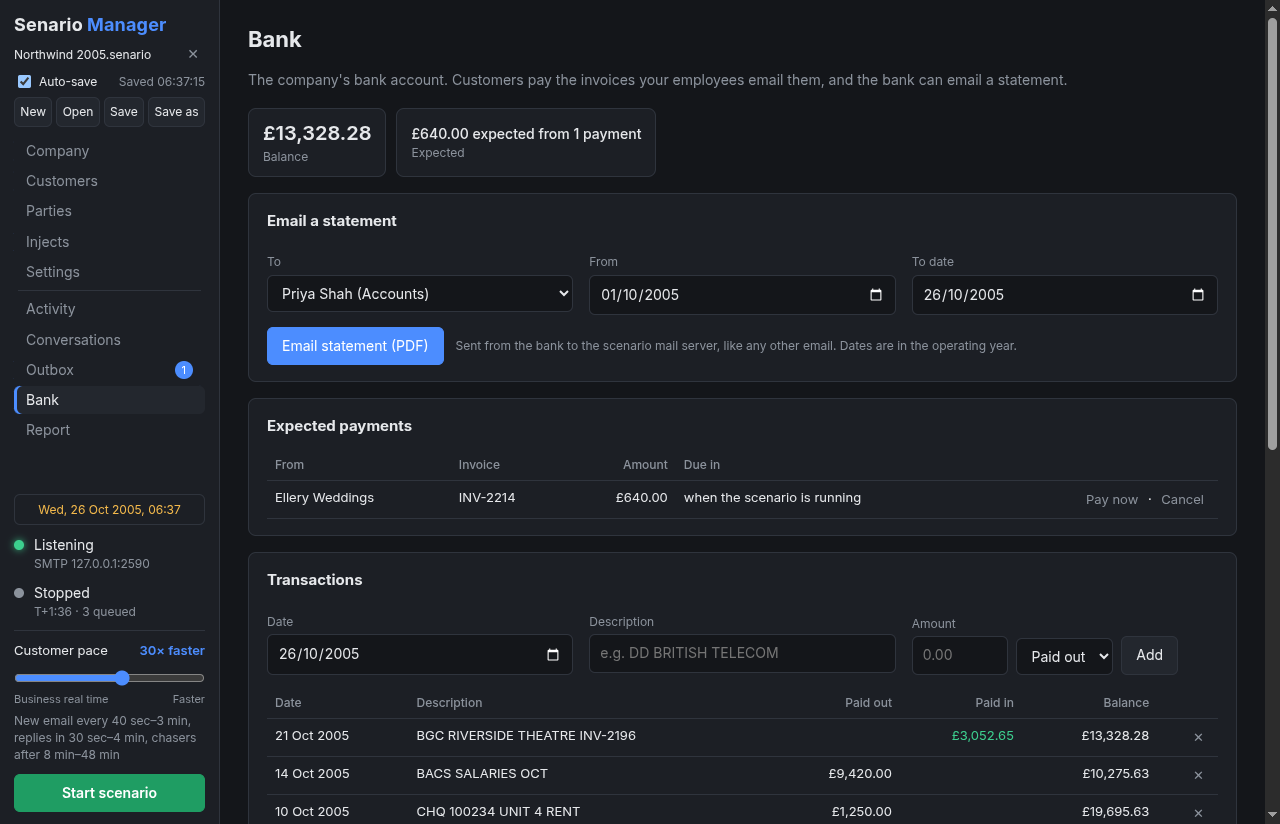
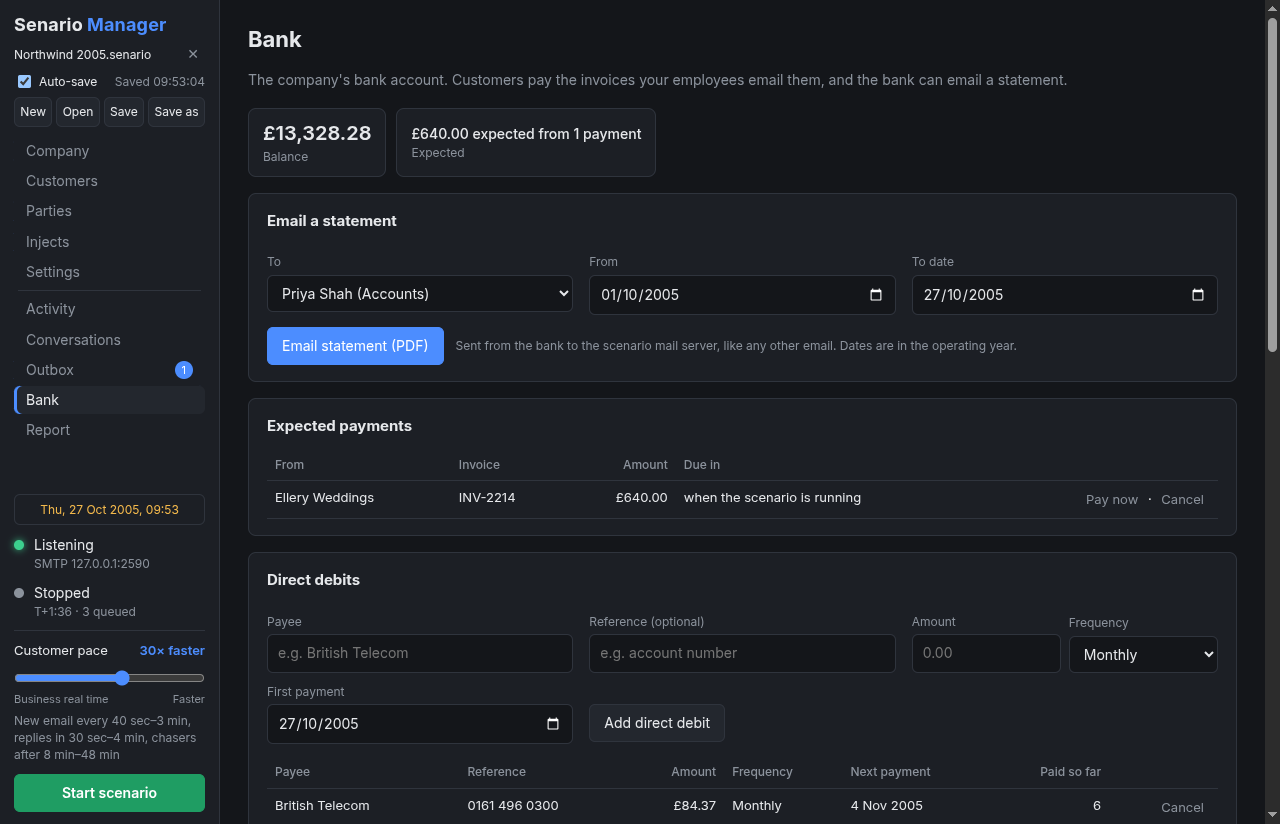
Release 0.9.0
Direct debits:
- Bank tab: add (payee, reference, amount, frequency, first payment
  date), list with next payment and count, cancel.
- Collected on each due date in the operating year as "DD <PAYEE>",
  catching up on missed or back-dated payments; monthly debits keep
  their day of the month (clamped to month end).
- Read-only Direct Debits page in online banking.
- .senario: bankDirectDebits state, directDebit in transaction meta
  (older files and versions unaffected).
- Docs, demo data and screenshots.

diff --git a/src/core/engine.js b/src/core/engine.js
@@ -64,6 +64,9 @@ class Engine extends EventEmitter {
     this.replyTimers = new Map();
     this.listener = null;
     this.listenerError = null;
+    // Direct debits fall due on scenario dates, whether or not the scenario is running.
+    this.ddTimer = setInterval(() => this.collectDirectDebits(), 60000);
+    this.ddTimer.unref();
   }
 
   // ---------- helpers ----------
@@ -293,6 +296,7 @@ class Engine extends EventEmitter {
   }
 
   async shutdown() {
+    clearInterval(this.ddTimer);
     await this.stop();
     await this.closeListener();
     await this.closeWebBank();
@@ -1389,6 +1393,7 @@ class Engine extends EventEmitter {
     return {
       account, transactions: rows.reverse(), balance, available: balance + (Number(account.overdraftLimit) || 0), expected,
       today: bank.isoDate(this.scenarioNow()), running: this.running, companyName: this.company.name,
+      directDebits: (this.data.bank.directDebits || []).map((d) => ({ ...d, nextDate: bank.nextCollection(d), frequencyLabel: bank.FREQUENCIES[d.frequency].label })),
       online: { enabled: !!online.enabled, bindAddress: online.bindAddress, port: online.port,
         users: (online.users || []).map((u) => ({ username: u.username, name: u.name })), ...this.webBankStatus() },
     };
@@ -1440,6 +1445,58 @@ class Engine extends EventEmitter {
     this.emit('bank-changed');
     this.emitStatus();
     return this.bankState();
+  }
+
+  // ---------- direct debits ----------
+
+  addDirectDebit({ payee, reference, amount, frequency, startDate }) {
+    const name = String(payee || '').trim().replace(/\s+/g, ' ').slice(0, 40);
+    const minor = Math.abs(bank.toMinor(amount));
+    if (!name) throw new Error('Enter who the direct debit is paid to.');
+    if (!(minor > 0)) throw new Error('Enter the amount that comes out each time.');
+    if (!bank.FREQUENCIES[frequency]) throw new Error('Choose how often it comes out.');
+    if (!/^\d{4}-\d{2}-\d{2}$/.test(String(startDate)) || Number.isNaN(Date.parse(startDate))) throw new Error('Choose the date of the first payment.');
+    const dd = { id: crypto.randomUUID(), payee: name, reference: String(reference || '').trim().slice(0, 18), amount: minor, frequency, startDate, collected: 0 };
+    (this.data.bank.directDebits = this.data.bank.directDebits || []).push(dd);
+    this.log('info', `Direct debit set up: ${bank.money(minor, this.data.bank.account.currency)} ${bank.FREQUENCIES[frequency].label.toLowerCase()} to ${name}, first on ${startDate}.`);
+    this.store.save();
+    this.collectDirectDebits();
+    this.emit('bank-changed');
+    return this.bankState();
+  }
+
+  // Cancelling stops future collections; what was already collected stays on the account.
+  removeDirectDebit(id) {
+    const dd = (this.data.bank.directDebits || []).find((d) => d.id === id);
+    this.data.bank.directDebits = (this.data.bank.directDebits || []).filter((d) => d.id !== id);
+    if (dd) this.log('info', `Direct debit to ${dd.payee} cancelled.`);
+    this.store.save();
+    this.emit('bank-changed');
+    return this.bankState();
+  }
+
+  // Takes every collection due up to today (scenario date), including any missed while the
+  // app was closed or before a back-dated start.
+  collectDirectDebits() {
+    const today = bank.isoDate(this.scenarioNow());
+    const cur = this.data.bank.account.currency;
+    let any = false;
+    for (const dd of this.data.bank.directDebits || []) {
+      for (let guard = 0; guard < 520 && bank.nextCollection(dd) <= today; guard++) {
+        const date = bank.nextCollection(dd);
+        this.data.bank.transactions.push({
+          id: crypto.randomUUID(), date, amount: -dd.amount, description: bank.ddDescription(dd.payee),
+          reference: dd.reference || undefined, counterparty: dd.payee, payee: dd.payee, directDebit: dd.id,
+        });
+        dd.collected = (dd.collected || 0) + 1;
+        any = true;
+        this.log('info', `Direct debit: ${bank.money(dd.amount, cur)} to ${dd.payee} (${date}).`);
+      }
+    }
+    if (any) {
+      this.store.save();
+      this.emit('bank-changed');
+    }
   }
 
   // ---------- online banking (core/webbank.js) ----------
@@ -1588,6 +1645,7 @@ class Engine extends EventEmitter {
     this.store.replaceAll(snapshot, opts);
     await this.restartListener().catch(() => {});
     await this.restartWebBank().catch(() => {});
+    this.collectDirectDebits();
     this.emit('threads-changed');
     this.emit('outbox-changed');
     this.emit('injects-changed');

diff --git a/test/banking.test.js b/test/banking.test.js
@@ -164,6 +164,44 @@ const SLOW = { name: 'Sue Slow', email: 'sue@slow.local', organisation: 'Slow & 
   fs.rmSync(f);
   console.log('OK 8: bank, promised payments and habits survive .senario and clearing conversations');
 
+  // 9. Direct debits: dates, back-dated catch-up, collection when due, cancelling, persistence.
+  const bankMod = require(ROOT + '/src/core/bank');
+  assert.deepStrictEqual([0, 1, 2, 3].map((n) => bankMod.occurrence('2005-01-31', 'monthly', n)), ['2005-01-31', '2005-02-28', '2005-03-31', '2005-04-30'], 'month ends');
+  assert.strictEqual(bankMod.occurrence('2004-02-29', 'yearly', 1), '2005-02-28');
+  assert.strictEqual(bankMod.occurrence('2005-12-20', 'fortnightly', 1), '2006-01-03');
+  assert.strictEqual(bankMod.occurrence('2005-11-30', 'quarterly', 1), '2006-02-28');
+  const today9 = engine.bankState().today;
+  const [y9, m9, d9] = today9.split('-').map(Number);
+  const threeMonthsAgo = bankMod.isoDate(Date.UTC(y9, m9 - 4, Math.min(d9, 28)));
+  const before9 = engine.bankState().balance;
+  assert.throws(() => engine.addDirectDebit({ payee: '', amount: 5, frequency: 'monthly', startDate: today9 }), /Enter who/);
+  assert.throws(() => engine.addDirectDebit({ payee: 'X', amount: 5, frequency: 'daily', startDate: today9 }), /how often/);
+  engine.addDirectDebit({ payee: 'British Telecom', reference: 'BT-99', amount: '84.37', frequency: 'monthly', startDate: threeMonthsAgo });
+  const bt = store.data.bank.transactions.filter((t) => t.description === 'DD BRITISH TELECOM' && t.directDebit);
+  assert.strictEqual(bt.length, 4, `back-dated: every missed month collected (today ${today9}, start ${threeMonthsAgo}): ${JSON.stringify(bt.map((t) => t.date))}`);
+  assert.ok(bt.every((t) => t.amount === -8437 && t.directDebit));
+  assert.strictEqual(engine.bankState().balance, before9 - bt.length * 8437);
+  engine.addDirectDebit({ payee: 'Unit 4 Landlord', amount: 1250, frequency: 'weekly', startDate: bankMod.occurrence(today9, 'weekly', 1) });
+  let dds = engine.bankState().directDebits;
+  assert.strictEqual(dds.find((d) => d.payee === 'Unit 4 Landlord').collected, 0, 'future: nothing yet');
+  assert.strictEqual(dds.find((d) => d.payee === 'Unit 4 Landlord').nextDate, bankMod.occurrence(today9, 'weekly', 1));
+  // Its date arrives (pretend a week has passed on the scenario calendar).
+  dds = store.data.bank.directDebits;
+  dds.find((d) => d.payee === 'Unit 4 Landlord').startDate = today9;
+  engine.collectDirectDebits();
+  engine.collectDirectDebits();
+  assert.strictEqual(store.data.bank.transactions.filter((t) => t.description === 'DD UNIT 4 LANDLORD').length, 1, 'collected once when due');
+  const f9 = path.join(os.tmpdir(), `dd-${process.pid}.senario`);
+  saveSenario(f9, store.data, { includeSecrets: false, appVersion: 'test' });
+  const back9 = loadSenario(f9).data.bank;
+  assert.deepStrictEqual(back9.directDebits, store.data.bank.directDebits);
+  assert.ok(back9.transactions.filter((t) => t.directDebit).length === bt.length + 1);
+  fs.rmSync(f9);
+  engine.removeDirectDebit(store.data.bank.directDebits[0].id);
+  assert.strictEqual(engine.bankState().directDebits.length, 1);
+  assert.strictEqual(store.data.bank.transactions.filter((t) => t.description === 'DD BRITISH TELECOM' && t.directDebit).length, bt.length, 'cancelling keeps what was taken');
+  console.log(`OK 9: direct debits (month ends, ${bt.length} back-dated collections, due-date collection once, cancel, .senario)`);
+
   await engine.shutdown();
   openai.close();
   sink.close();

diff --git a/src/core/webbank.js b/src/core/webbank.js
@@ -193,6 +193,7 @@ class WebBank {
     if (path === '/pay') return req.method === 'POST' ? this.payReview(res, s, body) : this.payForm(res, s, {});
     if (path === '/pay/confirm' && req.method === 'POST') return this.payConfirm(res, s, body);
     if (path === '/statements') return this.statementsPage(res, s, url);
+    if (path === '/direct-debits') return this.directDebits(res, s);
     if (path === '/statements/download') return this.download(res, s, url);
     return this.send(res, 404, this.page(s, 'Not found', '<div class="panel">That page doesn\'t exist. <a href="/accounts">Back to your accounts</a></div>'));
   }
@@ -203,7 +204,7 @@ class WebBank {
     const st = this.api.state();
     const name = esc(st.account.bankName);
     const link = (href, label) => `<a href="${href}"${active === href ? ' class="on"' : ''}>${label}</a>`;
-    const navHtml = s ? `<nav>${link('/accounts', 'Accounts')}${link('/transactions', 'Transactions')}${link('/pay', 'Pay &amp; transfer')}${link('/statements', 'Statements')}</nav>
+    const navHtml = s ? `<nav>${link('/accounts', 'Accounts')}${link('/transactions', 'Transactions')}${link('/pay', 'Pay &amp; transfer')}${link('/direct-debits', 'Direct Debits')}${link('/statements', 'Statements')}</nav>
       <form method="post" action="/logout"><input type="hidden" name="csrf" value="${esc(s.csrf)}"><button>Log out</button></form>` : '';
     return `<!doctype html><html lang="en"><head><meta charset="utf-8"><meta name="viewport" content="width=device-width, initial-scale=1">
 <title>${esc(title)} - ${name} Online Banking</title><link rel="stylesheet" href="/style.css"></head>
@@ -354,6 +355,15 @@ class WebBank {
       <div class="panel"><dl><dt>Confirmation number</dt><dd>${esc(t.id.slice(0, 8).toUpperCase())}</dd><dt>Date</dt><dd>${esc(fmtDay(t.date))}</dd>
         <dt>Shows on your statement as</dt><dd>${esc(t.description)}</dd><dt>New balance</dt><dd>${this.money(this.api.state().balance)}</dd></dl>
         <div class="actions"><a class="btn" href="/accounts">Back to accounts</a><a class="btn alt" href="/pay">Make another payment</a></div></div>`, '/pay'));
+  }
+
+  directDebits(res, s) {
+    const dds = this.api.state().directDebits || [];
+    this.send(res, 200, this.page(s, 'Direct Debits', `<h1>Direct Debits</h1>
+      <div class="panel">${dds.length ? `<table><thead><tr><th>Paid to</th><th>Reference</th><th class="n">Last amount</th><th>How often</th><th>Next payment</th></tr></thead><tbody>${dds.map((d) => `<tr>
+        <td>${esc(d.payee)}</td><td>${esc(d.reference || '')}</td><td class="n">${this.money(d.amount)}</td><td>${esc(d.frequencyLabel)}</td><td>${esc(fmtDay(d.nextDate))}</td></tr>`).join('')}</tbody></table>`
+        : '<p class="muted">You have no Direct Debits on this account.</p>'}
+        <p class="muted small">To cancel a Direct Debit, please contact us.</p></div>`, '/direct-debits'));
   }
 
   statementsPage(res, s, url, error) {

diff --git a/src/renderer/bank.js b/src/renderer/bank.js
@@ -42,6 +42,13 @@ async function loadBank() {
   if (!$('#stmtFrom').value) $('#stmtFrom').value = `${b.today.slice(0, 8)}01`;
   if (!$('#stmtUntil').value) $('#stmtUntil').value = b.today;
   if (!$('#txDate').value) $('#txDate').value = b.today;
+  if (!$('#ddStart').value) $('#ddStart').value = b.today;
+  $('#bankDd').innerHTML = b.directDebits.length
+    ? `<table class="rtable"><thead><tr><th>Payee</th><th>Reference</th><th class="n">Amount</th><th>Frequency</th><th>Next payment</th><th class="n">Paid so far</th><th></th></tr></thead><tbody>${b.directDebits.map((d) => `<tr>
+        <td>${esc(d.payee)}</td><td>${esc(d.reference || '–')}</td><td class="n">${fmtMoney(d.amount)}</td><td>${esc(d.frequencyLabel)}</td>
+        <td>${fmtDay(d.nextDate)}</td><td class="n">${d.collected}</td>
+        <td class="n"><button class="link danger" data-dd-remove="${esc(d.id)}">Cancel</button></td></tr>`).join('')}</tbody></table>`
+    : '<p class="muted small">No direct debits.</p>';
 
   // Online banking.
   const o = b.online;
@@ -94,6 +101,17 @@ $('#addTx').addEventListener('click', (e) =>
   })
 );
 
+$('#addDd').addEventListener('click', (e) =>
+  busy(e.target, async () => {
+    await window.api.addDirectDebit({ payee: $('#ddPayee').value, reference: $('#ddRef').value, amount: $('#ddAmount').value, frequency: $('#ddFreq').value, startDate: $('#ddStart').value });
+    $('#ddPayee').value = '';
+    $('#ddRef').value = '';
+    $('#ddAmount').value = '';
+    await loadBank();
+    toast('Direct debit set up');
+  })
+);
+
 $('#sendStatement').addEventListener('click', (e) =>
   busy(e.target, async () => {
     await window.api.sendStatement({ to: [$('#stmtTo').value], from: $('#stmtFrom').value, until: $('#stmtUntil').value });
@@ -132,6 +150,10 @@ $('#tab-bank').addEventListener('click', (e) => {
   const now = e.target.closest('[data-pay-now]');
   const cancel = e.target.closest('[data-pay-cancel]');
   const remove = e.target.closest('[data-tx-remove]');
+  const ddRemove = e.target.closest('[data-dd-remove]');
+  if (ddRemove && confirm('Cancel this direct debit? Payments already taken stay on the account.')) {
+    busy(ddRemove, async () => { await window.api.removeDirectDebit(ddRemove.dataset.ddRemove); await loadBank(); });
+  }
   if (now) busy(now, async () => { await window.api.payNow(now.dataset.payNow); await loadBank(); });
   if (cancel && confirm('Cancel this payment? The customer will not pay this invoice.')) busy(cancel, async () => { await window.api.cancelPayment(cancel.dataset.payCancel); await loadBank(); });
   if (remove && confirm('Remove this transaction from the account?')) busy(remove, async () => { await window.api.removeTransaction(remove.dataset.txRemove); await loadBank(); });

diff --git a/src/core/senario-file.js b/src/core/senario-file.js
@@ -62,7 +62,7 @@ CREATE TABLE state (key TEXT PRIMARY KEY, value TEXT NOT NULL);            -- JS
 CREATE TABLE bank_transactions (                                            -- added in 0.6.0
   position INTEGER PRIMARY KEY, id TEXT NOT NULL, date TEXT NOT NULL, amount INTEGER NOT NULL, -- minor units, + in / - out
   description TEXT, reference TEXT, counterparty TEXT, customer TEXT, invoice TEXT,
-  meta TEXT -- JSON: online payments' { payee, sortCode, accountNumber, by } (0.7.0)
+  meta TEXT -- JSON extras: online payments' { payee, sortCode, accountNumber, by } (0.7.0), { payee, directDebit } (0.9.0)
 );
 CREATE TABLE activity_log (id INTEGER PRIMARY KEY, time TEXT NOT NULL, level TEXT NOT NULL, message TEXT NOT NULL);
 CREATE TABLE seen_messages (message_id TEXT PRIMARY KEY, kind TEXT NOT NULL, at INTEGER); -- sent | processed
@@ -149,8 +149,9 @@ function saveSenario(file, data, { includeSecrets = false, appVersion = '' } = {
     state.run('bankAccount', JSON.stringify(bankData.account || {}));
     // Users' passwords are salted hashes; credentials-free saves still keep them, as the site needs them.
     state.run('bankOnline', JSON.stringify(bankData.online || {}));
+    state.run('bankDirectDebits', JSON.stringify(bankData.directDebits || []));
     const tx = db.prepare('INSERT INTO bank_transactions VALUES (?, ?, ?, ?, ?, ?, ?, ?, ?, ?)');
-    const TX_META = ['payee', 'sortCode', 'accountNumber', 'by'];
+    const TX_META = ['payee', 'sortCode', 'accountNumber', 'by', 'directDebit'];
     (bankData.transactions || []).forEach((t, i) => {
       const meta = Object.fromEntries(TX_META.filter((k) => t[k] !== undefined).map((k) => [k, t[k]]));
       tx.run(i, t.id, t.date, Math.round(t.amount) || 0, t.description || '',
@@ -273,6 +274,7 @@ function loadSenario(file) {
     const bankData = {
       account: stateRows.bankAccount || {},
       online: stateRows.bankOnline || {},
+      directDebits: Array.isArray(stateRows.bankDirectDebits) ? stateRows.bankDirectDebits : [],
       transactions: hasTable('bank_transactions')
         ? db.prepare('SELECT * FROM bank_transactions ORDER BY position').all().map((t) => Object.fromEntries(Object.entries({
           id: t.id, date: t.date, amount: Number(t.amount), description: t.description, reference: t.reference,

diff --git a/src/core/bank.js b/src/core/bank.js
@@ -68,6 +68,34 @@ function debitDescription(payee, reference, year) {
   return `${code} ${String(payee || '').toUpperCase().slice(0, 30)}${reference ? ` ${String(reference).toUpperCase().slice(0, 18)}` : ''}`.trim();
 }
 
+// ---------- direct debits ----------
+//
+// data.bank.directDebits = [{ id, payee, reference, amount (minor), frequency, startDate, collected }]
+// The n-th collection is worked out from the start date, so monthly debits keep their day
+// of the month (the 31st falls back to the last day of shorter months) and never drift.
+
+const FREQUENCIES = {
+  weekly: { days: 7, label: 'Weekly' },
+  fortnightly: { days: 14, label: 'Fortnightly' },
+  monthly: { months: 1, label: 'Monthly' },
+  quarterly: { months: 3, label: 'Quarterly' },
+  yearly: { months: 12, label: 'Yearly' },
+};
+
+function occurrence(startDate, frequency, n) {
+  const f = FREQUENCIES[frequency] || FREQUENCIES.monthly;
+  const [y, m, d] = startDate.split('-').map(Number);
+  if (f.days) return isoDate(Date.UTC(y, m - 1, d + f.days * n));
+  const months = m - 1 + f.months * n;
+  const lastDay = new Date(Date.UTC(y, months + 1, 0)).getUTCDate();
+  return isoDate(Date.UTC(y, months, Math.min(d, lastDay)));
+}
+
+const nextCollection = (dd) => occurrence(dd.startDate, dd.frequency, dd.collected || 0);
+
+// "DD BRITISH TELECOM": how a direct debit shows on a statement.
+const ddDescription = (payee) => `DD ${String(payee || '').toUpperCase().slice(0, 34)}`.trim();
+
 function hashPassword(password, salt = require('crypto').randomBytes(16).toString('hex')) {
   return { salt, hash: require('crypto').scryptSync(String(password), salt, 32).toString('hex') };
 }
@@ -182,4 +210,7 @@ async function statement(bank, { from, to, companyName, now }) {
   };
 }
 
-module.exports = { DEFAULT_ACCOUNT, DEFAULT_ONLINE, money, toMinor, digits, ledger, creditDescription, debitDescription, hashPassword, checkPassword, statement, isoDate };
+module.exports = {
+  DEFAULT_ACCOUNT, DEFAULT_ONLINE, FREQUENCIES, money, toMinor, digits, ledger, creditDescription, debitDescription, ddDescription,
+  occurrence, nextCollection, hashPassword, checkPassword, statement, isoDate,
+};

diff --git a/scripts/screenshots.js b/scripts/screenshots.js
@@ -107,6 +107,11 @@ const seed = {
       { id: 'b5', date: '2005-10-14', amount: -942000, description: 'BACS SALARIES OCT' },
       { id: 'b6', date: '2005-10-21', amount: 305265, description: 'BGC RIVERSIDE THEATRE INV-2196', customer: customers[0].email, invoice: 'INV-2196' },
     ],
+    directDebits: [
+      { id: 'dd1', payee: 'British Telecom', reference: '0161 496 0300', amount: 8437, frequency: 'monthly', startDate: '2005-05-04', collected: 6 },
+      { id: 'dd2', payee: 'Hiscox Insurance', reference: 'POL 77812', amount: 34210, frequency: 'quarterly', startDate: '2005-08-15', collected: 1 },
+      { id: 'dd3', payee: 'North West Water', amount: 6200, frequency: 'monthly', startDate: '2005-05-28', collected: 5 },
+    ],
     online: { enabled: true, bindAddress: '127.0.0.1', port: WEB_PORT, users: [{ username: 'priya', name: 'Priya Shah', ...hashPassword('demo-password') }] },
   },
   pending: [
@@ -144,6 +149,7 @@ const SHOTS = [
   ['injects', `document.querySelector('[data-tab=injects]').click()`, `document.querySelectorAll('#injects .inject')[2].open = true`],
   ['outbox', `document.querySelector('[data-tab=outbox]').click()`],
   ['bank', `document.querySelector('[data-tab=bank]').click()`],
+  ['direct-debits', `document.querySelector('#bankDd').closest('.card').scrollIntoView({ block: 'start' })`],
   ['report', `document.querySelector('[data-tab=report]').click()`],
   ['templates', `document.querySelector('[data-tab=company]').click(); document.querySelector('#newScenario').click()`],
   ['updates', `document.querySelector('#closeModal').click(); document.querySelector('[data-tab=settings]').click()`, `document.querySelector('#updatesCard').scrollIntoView({ block: 'center' })`],

diff --git a/src/renderer/index.html b/src/renderer/index.html
@@ -428,6 +428,20 @@
         <div id="bankExpected"></div>
       </div>
       <div class="card">
+        <h2>Direct debits</h2>
+        <div class="grid3 tx-add">
+          <div><label>Payee</label><input id="ddPayee" placeholder="e.g. British Telecom" /></div>
+          <div><label>Reference (optional)</label><input id="ddRef" placeholder="e.g. account number" /></div>
+          <div class="row tight"><div><label>Amount</label><input id="ddAmount" type="number" step="0.01" min="0" placeholder="0.00" /></div>
+            <div><label>Frequency</label><select id="ddFreq"><option value="weekly">Weekly</option><option value="fortnightly">Fortnightly</option>
+              <option value="monthly" selected>Monthly</option><option value="quarterly">Quarterly</option><option value="yearly">Yearly</option></select></div></div>
+          <div><label>First payment</label><input id="ddStart" type="date" /></div>
+          <div><label>&nbsp;</label><button id="addDd">Add direct debit</button></div>
+        </div>
+        <div id="bankDd"></div>
+        <p class="muted small">Collected on each due date in the operating year, whether or not the scenario is running, even if that takes the account overdrawn. A first payment in the past collects everything missed since.</p>
+      </div>
+      <div class="card">
         <h2>Transactions</h2>
         <div class="grid3 tx-add">
           <div><label>Date</label><input id="txDate" type="date" /></div>

diff --git a/src/main.js b/src/main.js
@@ -291,6 +291,8 @@ function wire() {
   handle('bank:setOnline', (opts) => engine.setOnlineBanking(opts || {}));
   handle('bank:addUser', (u) => engine.addBankUser(u || {}));
   handle('bank:removeUser', (username) => engine.removeBankUser(username));
+  handle('bank:addDirectDebit', (dd) => engine.addDirectDebit(dd || {}));
+  handle('bank:removeDirectDebit', (id) => engine.removeDirectDebit(id));
   handle('bank:openSite', () => {
     const o = store.data.bank.online;
     const host = o.bindAddress && o.bindAddress !== '0.0.0.0' ? o.bindAddress : '127.0.0.1';
@@ -545,6 +547,7 @@ app.whenReady().then(() => {
   // Start listening for replies straight away; errors are shown in the UI.
   if (store.settings.mail.host) engine.openListener().catch(() => {});
   engine.openWebBank().catch(() => {});
+  engine.collectDirectDebits();
   if (pendingOpen) win.webContents.once('did-finish-load', () => openFromOs(pendingOpen));
   updater.init();
   app.on('activate', () => {

diff --git a/test/webbank.test.js b/test/webbank.test.js
@@ -126,7 +126,12 @@ const login = (username, password) => req('/login', { method: 'POST', form: { us
   assert.match(r.text, /1 transaction</);
   r = await req(`/transactions?from=${today}&to=${today}`);
   assert.doesNotMatch(r.text, /OLD PAYMENT/);
-  console.log('OK 5: transactions searched and filtered by date');
+  r = await req('/direct-debits');
+  assert.match(r.text, /You have no Direct Debits/);
+  engine.addDirectDebit({ payee: 'British <Telecom>', amount: 84.37, frequency: 'quarterly', startDate: '2006-01-01' });
+  r = await req('/direct-debits');
+  assert.match(r.text, /British &lt;Telecom&gt;.*£84\.37.*Quarterly.*01 Jan 2006/s);
+  console.log('OK 5: transactions searched and filtered by date; Direct Debits listed');
 
   // 6. Statements: CSV (formula-safe) and PDF.
   r = await req(`/statements/download?from=2005-09-01&to=${today}&format=csv`);

diff --git a/src/core/store.js b/src/core/store.js
@@ -96,7 +96,7 @@ const DEFAULT_DATA = {
   injects: [], // scripted exercise events
   exercise: { elapsedMs: 0, runningSince: null, startedAt: null }, // exercise clock (scenario time)
   dkimKeys: {}, // domain -> { selector, privateKey, publicKey }
-  bank: { account: { ...DEFAULT_ACCOUNT }, transactions: [], online: { ...DEFAULT_ONLINE } }, // see core/bank.js
+  bank: { account: { ...DEFAULT_ACCOUNT }, transactions: [], directDebits: [], online: { ...DEFAULT_ONLINE } }, // see core/bank.js
   log: [], // activity log: { time, level, message }
   // App-level state, never written into .senario files.
   appState: { currentFile: null, includeSecrets: false, autoSave: true, autoUpdate: true },

diff --git a/src/preload.js b/src/preload.js
@@ -67,6 +67,8 @@ contextBridge.exposeInMainWorld('api', {
   setOnlineBanking: (opts) => call('bank:setOnline', opts),
   addBankUser: (u) => call('bank:addUser', u),
   removeBankUser: (username) => call('bank:removeUser', username),
+  addDirectDebit: (dd) => call('bank:addDirectDebit', dd),
+  removeDirectDebit: (id) => call('bank:removeDirectDebit', id),
   openBankSite: () => call('bank:openSite'),
   removeThread: (id) => call('threads:remove', id),
   testOpenAI: () => call('test:openai'),
